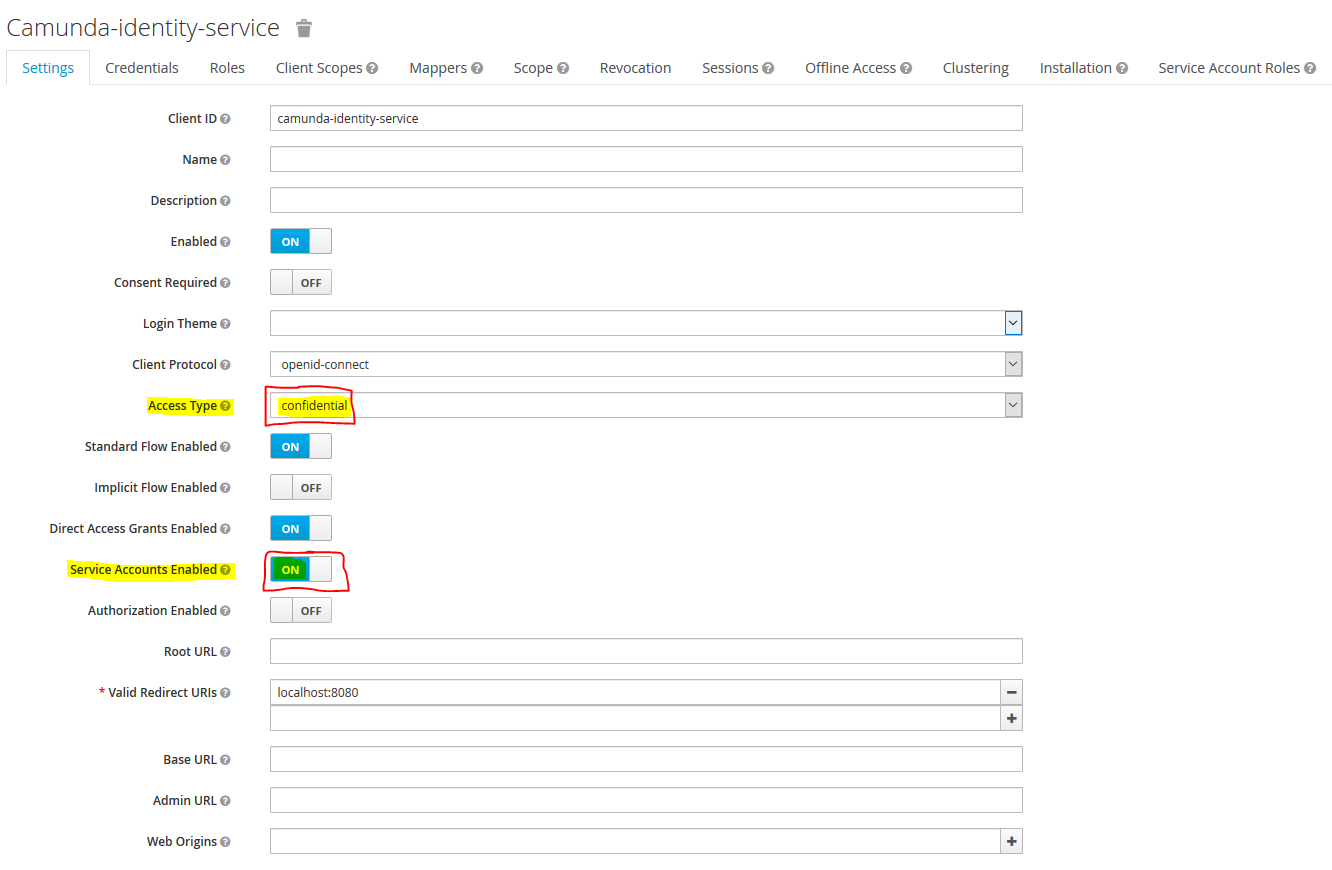
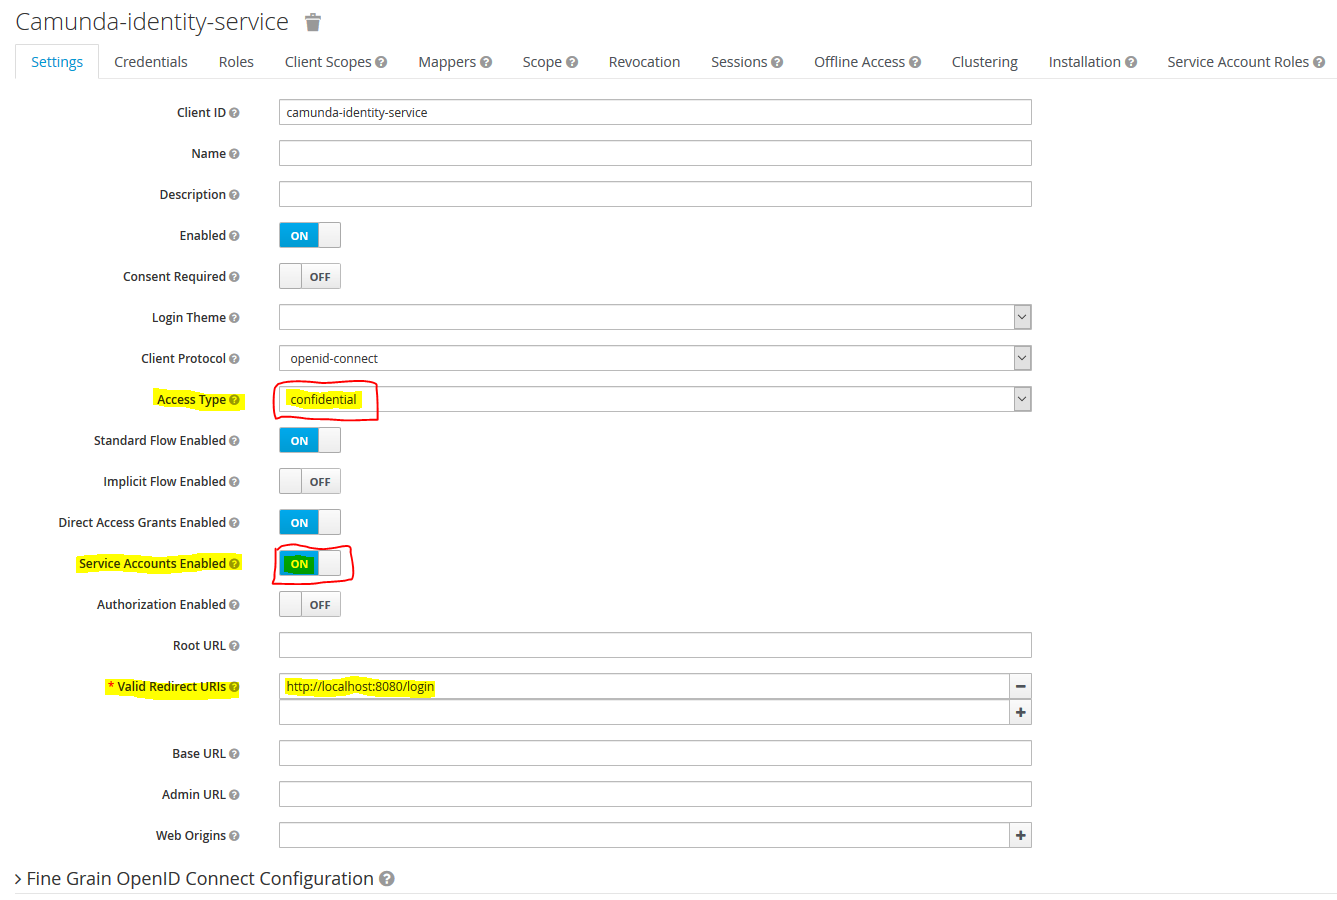
Enhanced documentation.

Changed region(s): [[0.0, 0.0, 1.0, 0.931], [0.0, 0.9, 0.7695, 0.9931]]

diff --git a/src/test/java/de/vonderbeck/bpm/identity/keycloak/KeycloakDontUseEmailAsUserIdQueryTest.java b/src/test/java/de/vonderbeck/bpm/identity/keycloak/KeycloakDontUseEmailAsUserIdQueryTest.java
@@ -1,5 +1,7 @@
 package de.vonderbeck.bpm.identity.keycloak;
 
+import static de.vonderbeck.bpm.identity.keycloak.KeycloakIdentityProviderTest.*;
+
 import java.util.List;
 
 import org.camunda.bpm.engine.identity.Group;
@@ -21,15 +23,14 @@ public class KeycloakDontUseEmailAsUserIdQueryTest extends ResourceProcessEngine
 
 	protected void tearDown() throws Exception {
 		super.tearDown();
-		Thread.sleep(250); // avoid HTTP 429 "too many requests" when calling free Auth0 API
 	}
 
 	// ------------------------------------------------------------------------
 	// Authorization tests
 	// ------------------------------------------------------------------------
 	
-	public void testAuth0LoginSuccess() {
-		assertTrue(identityService.checkPassword("01cf2464-2233-4569-a354-cd5101171d7d", "camunda1!"));
+	public void testKeycloakLoginSuccess() {
+		assertTrue(identityService.checkPassword(USER_ID_CAMUNDA_ADMIN, "camunda1!"));
 	}
 
 	// ------------------------------------------------------------------------
@@ -37,29 +38,28 @@ public class KeycloakDontUseEmailAsUserIdQueryTest extends ResourceProcessEngine
 	// ------------------------------------------------------------------------
 	
 	public void testUserQueryFilterByUserId() {
-		User user = identityService.createUserQuery().userId("9e7906b2-f67d-4937-97c6-d98791b7d790").singleResult();
+		User user = identityService.createUserQuery().userId(USER_ID_OTHER).singleResult();
 		assertNotNull(user);
 
-		user = identityService.createUserQuery().userId("01cf2464-2233-4569-a354-cd5101171d7d").singleResult();
+		user = identityService.createUserQuery().userId(USER_ID_CAMUNDA_ADMIN).singleResult();
 		assertNotNull(user);
 
 		// validate user
-		assertEquals("01cf2464-2233-4569-a354-cd5101171d7d", user.getId());
+		assertEquals(USER_ID_CAMUNDA_ADMIN, user.getId());
 		assertEquals("Admin", user.getFirstName());
 		assertEquals("Camunda", user.getLastName());
 		assertEquals("camunda@accso.de", user.getEmail());
-
 
 		user = identityService.createUserQuery().userId("non-existing").singleResult();
 		assertNull(user);
 	}
 
 	public void testUserQueryFilterByUserIdIn() {
-		List<User> users = identityService.createUserQuery().userIdIn("01cf2464-2233-4569-a354-cd5101171d7d", "9e7906b2-f67d-4937-97c6-d98791b7d790").list();
+		List<User> users = identityService.createUserQuery().userIdIn(USER_ID_CAMUNDA_ADMIN, USER_ID_OTHER).list();
 		assertNotNull(users);
 		assertEquals(2, users.size());
 
-		users = identityService.createUserQuery().userIdIn("01cf2464-2233-4569-a354-cd5101171d7d", "non-existing").list();
+		users = identityService.createUserQuery().userIdIn(USER_ID_CAMUNDA_ADMIN, "non-existing").list();
 		assertNotNull(users);
 		assertEquals(1, users.size());
 	}
@@ -69,7 +69,7 @@ public class KeycloakDontUseEmailAsUserIdQueryTest extends ResourceProcessEngine
 		assertNotNull(user);
 
 		// validate user
-		assertEquals("01cf2464-2233-4569-a354-cd5101171d7d", user.getId());
+		assertEquals(USER_ID_CAMUNDA_ADMIN, user.getId());
 		assertEquals("Admin", user.getFirstName());
 		assertEquals("Camunda", user.getLastName());
 		assertEquals("camunda@accso.de", user.getEmail());
@@ -80,20 +80,20 @@ public class KeycloakDontUseEmailAsUserIdQueryTest extends ResourceProcessEngine
 
 	public void testUserQueryFilterByGroupIdAndId() {
 		List<User> result = identityService.createUserQuery()
-				.memberOfGroup("16527365-c79a-4f0e-bfcf-86770f1f27a6")
-				.userId("01cf2464-2233-4569-a354-cd5101171d7d")
+				.memberOfGroup(GROUP_ID_ADMIN)
+				.userId(USER_ID_CAMUNDA_ADMIN)
 				.list();
 		assertEquals(1, result.size());
 
 		result = identityService.createUserQuery()
-				.memberOfGroup("16527365-c79a-4f0e-bfcf-86770f1f27a6")
+				.memberOfGroup(GROUP_ID_ADMIN)
 				.userId("non-exist")
 				.list();
 		assertEquals(0, result.size());
 
 		result = identityService.createUserQuery()
 				.memberOfGroup("non-exist")
-				.userId("01cf2464-2233-4569-a354-cd5101171d7d")
+				.userId(USER_ID_CAMUNDA_ADMIN)
 				.list();
 		assertEquals(0, result.size());
 		
@@ -106,7 +106,7 @@ public class KeycloakDontUseEmailAsUserIdQueryTest extends ResourceProcessEngine
 			identityService.setAuthenticatedUserId("non-existing");
 			assertEquals(0, identityService.createUserQuery().count());
 
-			identityService.setAuthenticatedUserId("01cf2464-2233-4569-a354-cd5101171d7d");
+			identityService.setAuthenticatedUserId(USER_ID_CAMUNDA_ADMIN);
 			assertEquals(1, identityService.createUserQuery().count());
 
 		} finally {
@@ -120,7 +120,7 @@ public class KeycloakDontUseEmailAsUserIdQueryTest extends ResourceProcessEngine
 	// ------------------------------------------------------------------------
 
 	public void testGroupQueryFilterByUserId() {
-		List<Group> result = identityService.createGroupQuery().groupMember("01cf2464-2233-4569-a354-cd5101171d7d").list();
+		List<Group> result = identityService.createGroupQuery().groupMember(USER_ID_CAMUNDA_ADMIN).list();
 		assertEquals(1, result.size());
 
 		result = identityService.createGroupQuery().groupMember("non-exist").list();
@@ -129,20 +129,20 @@ public class KeycloakDontUseEmailAsUserIdQueryTest extends ResourceProcessEngine
 
 	public void testFilterByGroupIdAndUserId() {
 		Group group = identityService.createGroupQuery()
-				.groupId("16527365-c79a-4f0e-bfcf-86770f1f27a6")
-				.groupMember("01cf2464-2233-4569-a354-cd5101171d7d")
+				.groupId(GROUP_ID_ADMIN)
+				.groupMember(USER_ID_CAMUNDA_ADMIN)
 				.singleResult();
 		assertNotNull(group);
 		assertEquals("camunda-admin", group.getName());
 
 		group = identityService.createGroupQuery()
 				.groupId("non-exist")
-				.groupMember("01cf2464-2233-4569-a354-cd5101171d7d")
+				.groupMember(USER_ID_CAMUNDA_ADMIN)
 				.singleResult();
 		assertNull(group);
 
 		group = identityService.createGroupQuery()
-				.groupId("16527365-c79a-4f0e-bfcf-86770f1f27a6")
+				.groupId(GROUP_ID_ADMIN)
 				.groupMember("non-exist")
 				.singleResult();
 		assertNull(group);
@@ -150,14 +150,14 @@ public class KeycloakDontUseEmailAsUserIdQueryTest extends ResourceProcessEngine
 	
 	public void testFilterByGroupIdInAndUserId() {
 		Group group = identityService.createGroupQuery()
-				.groupIdIn("16527365-c79a-4f0e-bfcf-86770f1f27a6", "09d9ba73-0eb7-4c02-99a3-b37438517826")
-				.groupMember("01cf2464-2233-4569-a354-cd5101171d7d")
+				.groupIdIn(GROUP_ID_ADMIN, GROUP_ID_TEAMLEAD)
+				.groupMember(USER_ID_CAMUNDA_ADMIN)
 				.singleResult();
 		assertNotNull(group);
 		assertEquals("camunda-admin", group.getName());
 
 		group = identityService.createGroupQuery()
-				.groupIdIn("16527365-c79a-4f0e-bfcf-86770f1f27a6", "09d9ba73-0eb7-4c02-99a3-b37438517826")
+				.groupIdIn(GROUP_ID_ADMIN, GROUP_ID_TEAMLEAD)
 				.groupMember("non-exist")
 				.singleResult();
 		assertNull(group);

diff --git a/src/test/java/de/vonderbeck/bpm/identity/keycloak/KeycloakGroupQueryTest.java b/src/test/java/de/vonderbeck/bpm/identity/keycloak/KeycloakGroupQueryTest.java
@@ -21,11 +21,11 @@ public class KeycloakGroupQueryTest extends KeycloakIdentityProviderTest {
 	}
 
 	public void testFilterByGroupId() {
-		Group group = identityService.createGroupQuery().groupId("16527365-c79a-4f0e-bfcf-86770f1f27a6").singleResult();
+		Group group = identityService.createGroupQuery().groupId(GROUP_ID_ADMIN).singleResult();
 		assertNotNull(group);
 
 		// validate result
-		assertEquals("16527365-c79a-4f0e-bfcf-86770f1f27a6", group.getId());
+		assertEquals(GROUP_ID_ADMIN, group.getId());
 		assertEquals("camunda-admin", group.getName());
 		assertEquals("SYSTEM", group.getType());
 
@@ -40,7 +40,7 @@ public class KeycloakGroupQueryTest extends KeycloakIdentityProviderTest {
 
 	public void testFilterByGroupIdIn() {
 		List<Group> groups = identityService.createGroupQuery()
-				.groupIdIn("16527365-c79a-4f0e-bfcf-86770f1f27a6", "09d9ba73-0eb7-4c02-99a3-b37438517826")
+				.groupIdIn(GROUP_ID_ADMIN, GROUP_ID_MANAGEMENT)
 				.list();
 
 		assertEquals(2, groups.size());
@@ -53,14 +53,14 @@ public class KeycloakGroupQueryTest extends KeycloakIdentityProviderTest {
 
 	public void testFilterByGroupIdInAndType() {
 		Group group = identityService.createGroupQuery()
-				.groupIdIn("16527365-c79a-4f0e-bfcf-86770f1f27a6", "09d9ba73-0eb7-4c02-99a3-b37438517826")
+				.groupIdIn(GROUP_ID_ADMIN, GROUP_ID_MANAGEMENT)
 				.groupType("WORKFLOW")
 				.singleResult();
 		assertNotNull(group);
 		assertEquals("management", group.getName());
 		
 		group = identityService.createGroupQuery()
-				.groupIdIn("16527365-c79a-4f0e-bfcf-86770f1f27a6", "09d9ba73-0eb7-4c02-99a3-b37438517826")
+				.groupIdIn(GROUP_ID_ADMIN, GROUP_ID_MANAGEMENT)
 				.groupType("SYSTEM")
 				.singleResult();
 		assertNotNull(group);
@@ -69,7 +69,7 @@ public class KeycloakGroupQueryTest extends KeycloakIdentityProviderTest {
 
 	public void testFilterByGroupIdInAndUserId() {
 		Group group = identityService.createGroupQuery()
-				.groupIdIn("16527365-c79a-4f0e-bfcf-86770f1f27a6", "09d9ba73-0eb7-4c02-99a3-b37438517826")
+				.groupIdIn(GROUP_ID_ADMIN, GROUP_ID_MANAGEMENT)
 				.groupMember("camunda@accso.de")
 				.singleResult();
 		assertNotNull(group);
@@ -81,7 +81,7 @@ public class KeycloakGroupQueryTest extends KeycloakIdentityProviderTest {
 		assertNotNull(group);
 
 		// validate result
-		assertEquals("09d9ba73-0eb7-4c02-99a3-b37438517826", group.getId());
+		assertEquals(GROUP_ID_MANAGEMENT, group.getId());
 		assertEquals("management", group.getName());
 
 		group = identityService.createGroupQuery().groupName("whatever").singleResult();
@@ -93,7 +93,7 @@ public class KeycloakGroupQueryTest extends KeycloakIdentityProviderTest {
 		assertNotNull(group);
 
 		// validate result
-		assertEquals("09d9ba73-0eb7-4c02-99a3-b37438517826", group.getId());
+		assertEquals(GROUP_ID_MANAGEMENT, group.getId());
 		assertEquals("management", group.getName());
 
 		group = identityService.createGroupQuery().groupNameLike("what*").singleResult();

diff --git a/src/test/java/de/vonderbeck/bpm/identity/keycloak/KeycloakUserQueryTest.java b/src/test/java/de/vonderbeck/bpm/identity/keycloak/KeycloakUserQueryTest.java
@@ -118,7 +118,7 @@ public class KeycloakUserQueryTest extends KeycloakIdentityProviderTest {
 
 
   public void testFilterByGroupId() {
-    List<User> result = identityService.createUserQuery().memberOfGroup("c0b9d291-2e49-4c10-9023-df6219e64354").list();
+    List<User> result = identityService.createUserQuery().memberOfGroup(GROUP_ID_TEAMLEAD).list();
     assertEquals(2, result.size());
     
     result = identityService.createUserQuery().memberOfGroup("non-exist").list();
@@ -128,7 +128,7 @@ public class KeycloakUserQueryTest extends KeycloakIdentityProviderTest {
  
   public void testFilterByGroupIdAndFirstname() {
     List<User> result = identityService.createUserQuery()
-        .memberOfGroup("c0b9d291-2e49-4c10-9023-df6219e64354")
+        .memberOfGroup(GROUP_ID_TEAMLEAD)
         .userFirstName("Gunnar")
         .list();
     assertEquals(1, result.size());
@@ -136,7 +136,7 @@ public class KeycloakUserQueryTest extends KeycloakIdentityProviderTest {
 
   public void testFilterByGroupIdAndId() {
     List<User> result = identityService.createUserQuery()
-        .memberOfGroup("c0b9d291-2e49-4c10-9023-df6219e64354")
+        .memberOfGroup(GROUP_ID_TEAMLEAD)
         .userId("gunnar.von-der-beck@accso.de")
         .list();
     assertEquals(1, result.size());
@@ -144,7 +144,7 @@ public class KeycloakUserQueryTest extends KeycloakIdentityProviderTest {
 
   public void testFilterByGroupIdAndLastname() {
     List<User> result = identityService.createUserQuery()
-        .memberOfGroup("c0b9d291-2e49-4c10-9023-df6219e64354")
+        .memberOfGroup(GROUP_ID_TEAMLEAD)
         .userLastName("von der Beck")
         .list();
     assertEquals(1, result.size());
@@ -152,7 +152,7 @@ public class KeycloakUserQueryTest extends KeycloakIdentityProviderTest {
 
   public void testFilterByGroupIdAndEmail() {
     List<User> result = identityService.createUserQuery()
-        .memberOfGroup("c0b9d291-2e49-4c10-9023-df6219e64354")
+        .memberOfGroup(GROUP_ID_TEAMLEAD)
         .userEmail("gunnar.von-der-beck@accso.de")
         .list();
     assertEquals(1, result.size());
@@ -160,7 +160,7 @@ public class KeycloakUserQueryTest extends KeycloakIdentityProviderTest {
 
   public void testFilterByGroupIdAndEmailLike() {
     List<User> result = identityService.createUserQuery()
-        .memberOfGroup("c0b9d291-2e49-4c10-9023-df6219e64354")
+        .memberOfGroup(GROUP_ID_TEAMLEAD)
         .userEmailLike("*@accso.de")
         .list();
     assertEquals(1, result.size());

diff --git a/src/test/java/de/vonderbeck/bpm/identity/keycloak/KeycloakIdentityProviderTest.java b/src/test/java/de/vonderbeck/bpm/identity/keycloak/KeycloakIdentityProviderTest.java
@@ -7,13 +7,20 @@ import org.camunda.bpm.engine.impl.test.PluggableProcessEngineTestCase;
  */
 public abstract class KeycloakIdentityProviderTest extends PluggableProcessEngineTestCase {
 
-  protected void setUp() throws Exception {
-    super.setUp();
-  }
+	protected final static String GROUP_ID_TEAMLEAD = "2d72716d-d269-479a-bc94-1bc9bb3f29a1";
+	protected final static String GROUP_ID_MANAGEMENT = "ec513624-5b34-41c4-b81a-8340694d9c78";
+	protected final static String GROUP_ID_ADMIN = "6b8f4ee5-db87-4530-8daa-0c557645f046";
+	
+	protected final static String USER_ID_CAMUNDA_ADMIN = "7ede1f9c-bae4-4a99-ae3f-322a2c2b544c";
+	protected final static String USER_ID_OTHER = "1b7bfaca-2c88-4776-a639-9188ef2ff608";
 
-  protected void tearDown() throws Exception {
-    super.tearDown();
-  }
-  
+	protected void setUp() throws Exception {
+		super.setUp();
+	}
+
+	protected void tearDown() throws Exception {
+		super.tearDown();
+	}
+
 
 }

diff --git a/README.md b/README.md
@@ -15,13 +15,14 @@ This plugin provides the basis for using Keycloak as Identity Management solutio
 **Beware: in case you want to use Keycloak's advanced login capabilities for social connections you must configure SSO as well.**
 Password grant exchanges are only supported for connections using **TODO**. Hence without SSO you will only be able to login with users managed by such connections.
 
+Features:
+
+*   ReadOnlyIdentityProvider
+*   Broad support for user and group queries
+*   Compatible with Spring Boot OAuth2 SSO
+
 Current version: `0.1.0-SNAPSHOT`<br >
 Tested with: Camunda `7.10.0` and Camunda `7.10.1-ee`
-
-Known issues:
-
-*   A strategy to distinguish SYSTEM and WORKFLOW groups is missing. Currently only the administrator group is mapped to type SYSTEM.
-*   Group query filters are applied on the client side - the Authorization Extension API does not allow further criteria.
 
 ## Prerequisites in your Keycloak realm
 
@@ -83,17 +84,13 @@ A complete list of configuration options can be found below:
 | `useEmailAsCamundaUserId` | Whether to use the Keycloak email attribute as Camunda's user ID. Default is `false`.<br /><br />This is option is a fallback in case you don't use SSO and want to login using Camunda's web interface with your mail address and not the cryptic Keycloak ID. Keep in mind that you will only be able to login without SSO with users managed by connections using one of the following strategies: **TODO**.|
 | `administratorGroupName` | The name of the administrator group. If this name is set and engine authorization is enabled, the plugin will create group-level Administrator authorizations on all built-in resources. |
 | `administratorUserName` | The name of the administrator user. If this name is set and engine authorization is enabled, the plugin will create user-level Administrator authorizations on all built-in resources. |
-| `authorizationCheckEnabled` |  If this property is set to true, then authorization checks are performed when querying for users or groups. Otherwise authorization checks are not performed when querying for users or groups. Default: `true`.<br />*Note*: If you have a huge amount of Auth0 users or groups we advise to set this property to false to improve the performance of the user and group query. |
-| `maxHttpConnections` | Maximum number HTTP connections for the Auth0 connection pool. Default: `200`|
+| `authorizationCheckEnabled` |  If this property is set to true, then authorization checks are performed when querying for users or groups. Otherwise authorization checks are not performed when querying for users or groups. Default: `true`.<br />*Note*: If you have a huge amount of Keycloak users or groups we advise to set this property to false to improve the performance of the user and group query. |
+| `maxHttpConnections` | Maximum number HTTP connections for the Keycloak connection pool. Default: `200`|
 | `disableSSLCertificateValidation` | Whether to disable SSL certificate validation. Default: `false`. Useful in test environments. | 
 
 ## Activating Single Sign On
 
 In this part, we’ll discuss how to activate SSO – Single Sign On – for the Camunda Web App using Spring Boots Security OAuth2 capabilities in combination with this plugin and Keycloak as authorization server.
-
-**TODO**
-
-<!---
 
 In order to setup Spring Boot's OAuth2 security add the following Maven dependencies to your project:
 
@@ -143,7 +140,7 @@ Insert a KeycloakAuthenticationProvider as follows:
 	
 	    private List<String> getUserGroups(String userId, ProcessEngine engine){
 	        List<String> groupIds = new ArrayList<>();
-	        // query groups using Auth0IdentityProvider plugin
+	        // query groups using KeycloakIdentityProvider plugin
 	        engine.getIdentityService().createGroupQuery().groupMember(userId).list()
 	        	.forEach( g -> groupIds.add(g.getId()));
 	        return groupIds;
@@ -188,31 +185,28 @@ Last but not least add a security configuration and enable OAuth2 SSO:
 	
 	}
 	
-Finally configure Spring Security with your Auth0 Single Page Web App `client-id` and `client-secret` in `application.yaml` as follows:
+Finally configure Spring Security with your Keycloak Single Page Web App `client-id` and `client-secret` in `application.yaml` as follows:
 
 	security:
 	  basic:
 	    enabled: false
 	  oauth2:
 	    client:
-	      client-id: yyy2121abc21def2121ghi2121yyy
+	      client-id: camunda-identity-service
 	      client-secret: yyy2121abc21def2121ghi212132121abc21def2121ghi2121eyyy
-	      accessTokenUri: https://<your-domain>.eu.auth0.com/oauth/token
-	      userAuthorizationUri: https://<your-domain>.eu.auth0.com/authorize
-	      tokenName: oauth_token
+	      accessTokenUri: https://<your-keycloak-server>/auth/realms/master/protocol/openid-connect/token
+	      userAuthorizationUri: https://<your-keycloak-server>/auth/realms/master/protocol/openid-connect/auth
 	      scope: openid profile email
 	    resource:
-	      userInfoUri: https://<your-domain>.eu.auth0.com/userinfo
+	      userInfoUri: https://<your-keycloak-server>/auth/realms/master/protocol/openid-connect/userinfo
 
 **Beware**: SSO will only work that way in case you have the KeycloakIdentityProviderPlugin's property `useEmailAsCamundaUserId` set to default which is `false`. If you want to use the email attribute as Camunda's user ID, the extraction in the Authentication Provider must be implemented as follows:
 
-	// Extract email from Auth0 authentication result - which is part of the requested user info
+	// Extract email from Keycloak authentication result - which is part of the requested user info
 	@SuppressWarnings("unchecked")
 	String userId = ((HashMap<String, String>) userAuthentication.getDetails()).get("email");
 	
-Keep in mind that Keycloak's `user_id` is definitely unique which might not always be the case for the `email` attribute (think of multiple connectors using the same mail address).
-
--->
+Keep in mind that Keycloak's `ID` is definitely unique which might not always be the case for the `email` attribute (think of multiple connectors using the same mail address).
 
 ------------------------------------------------------------
 
